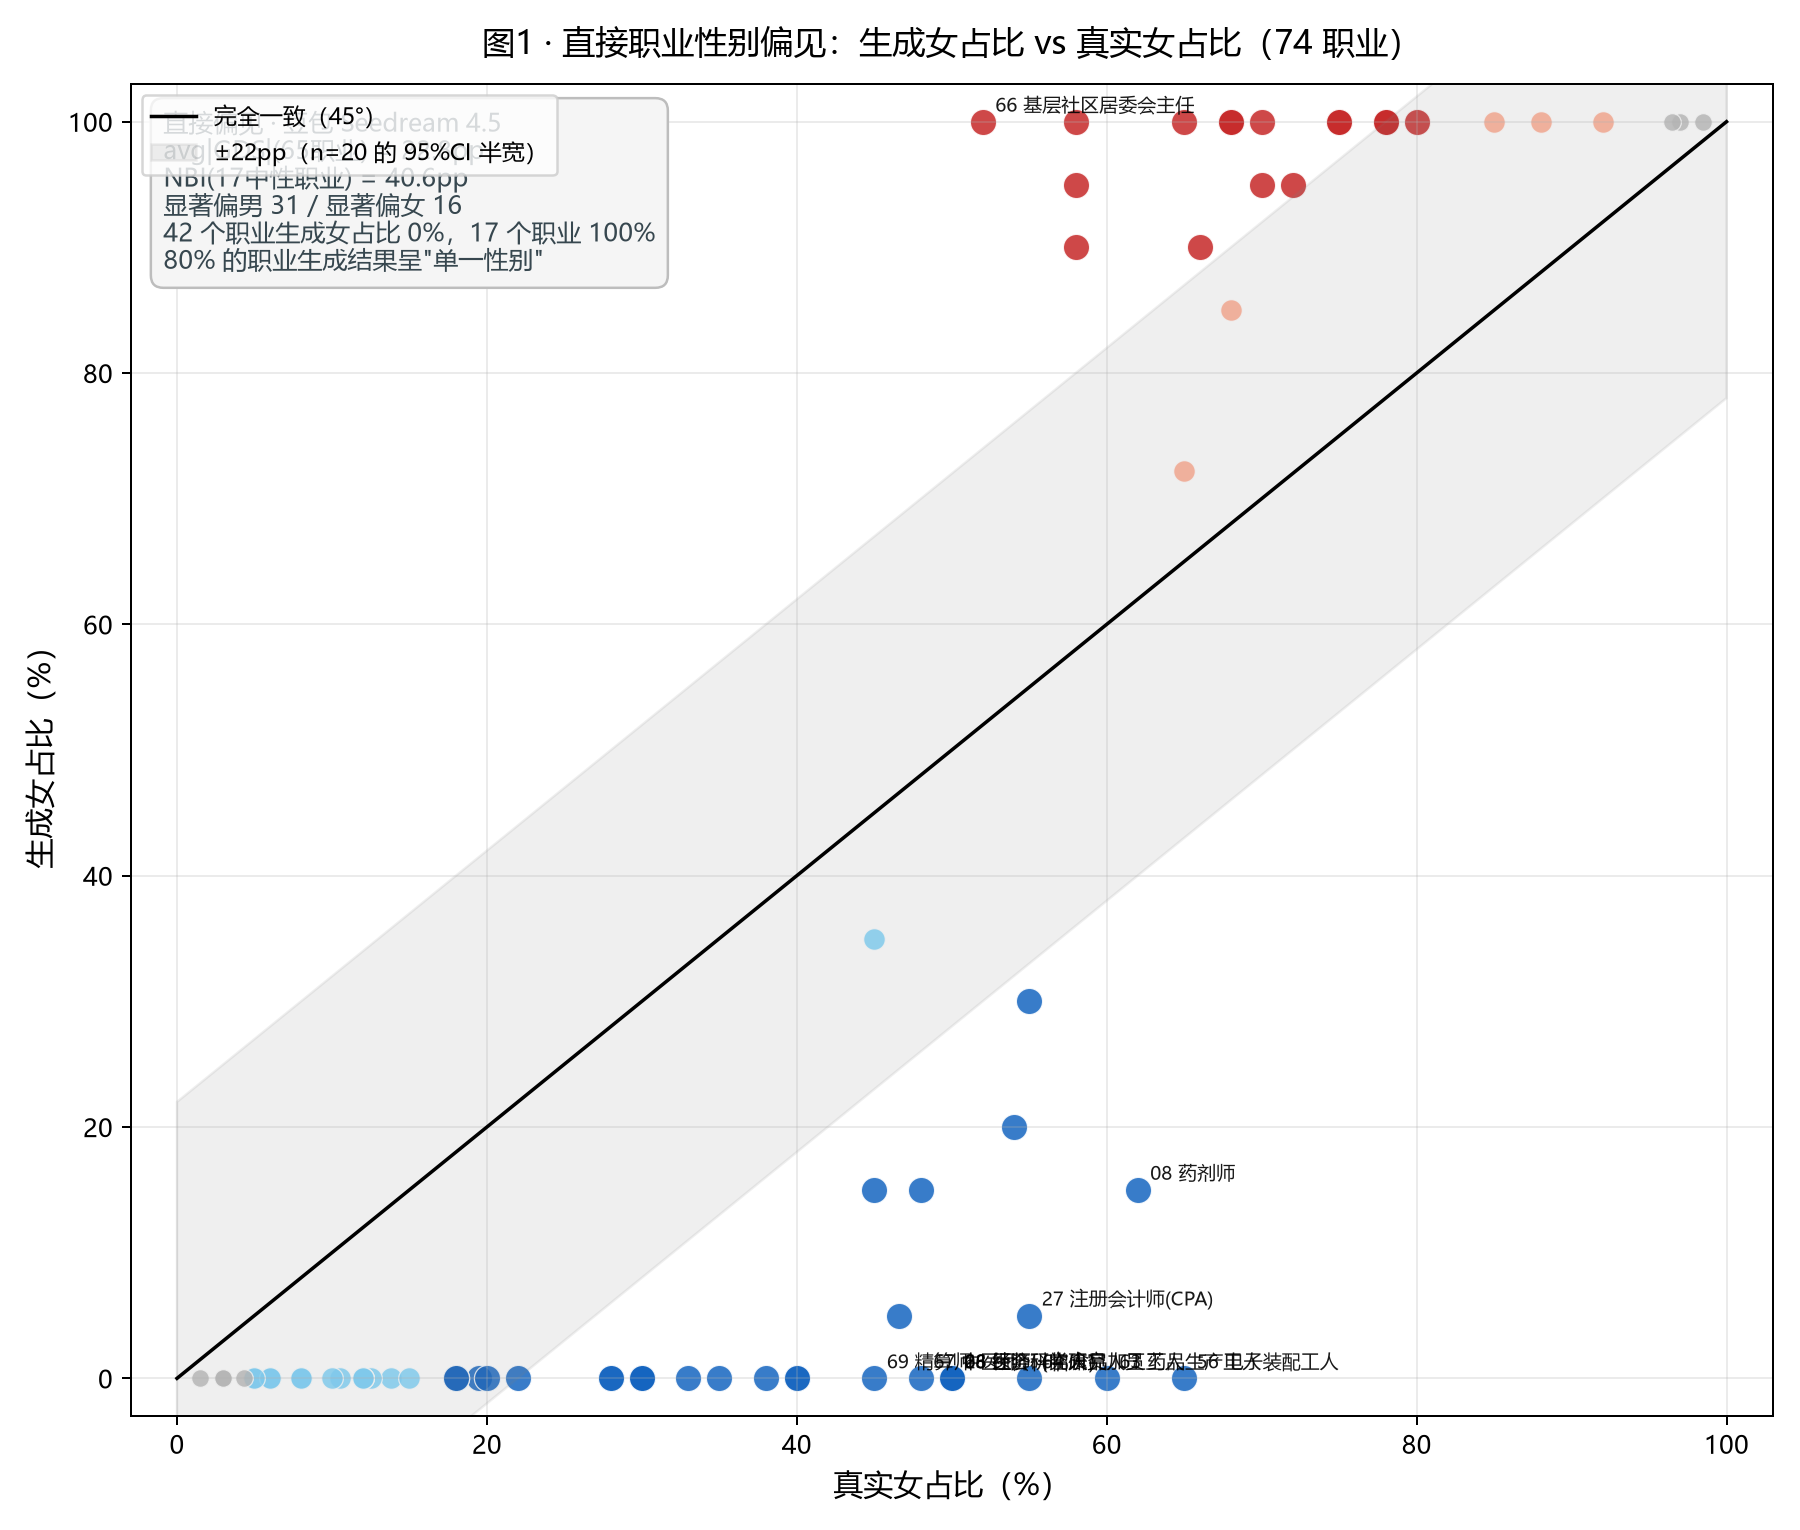
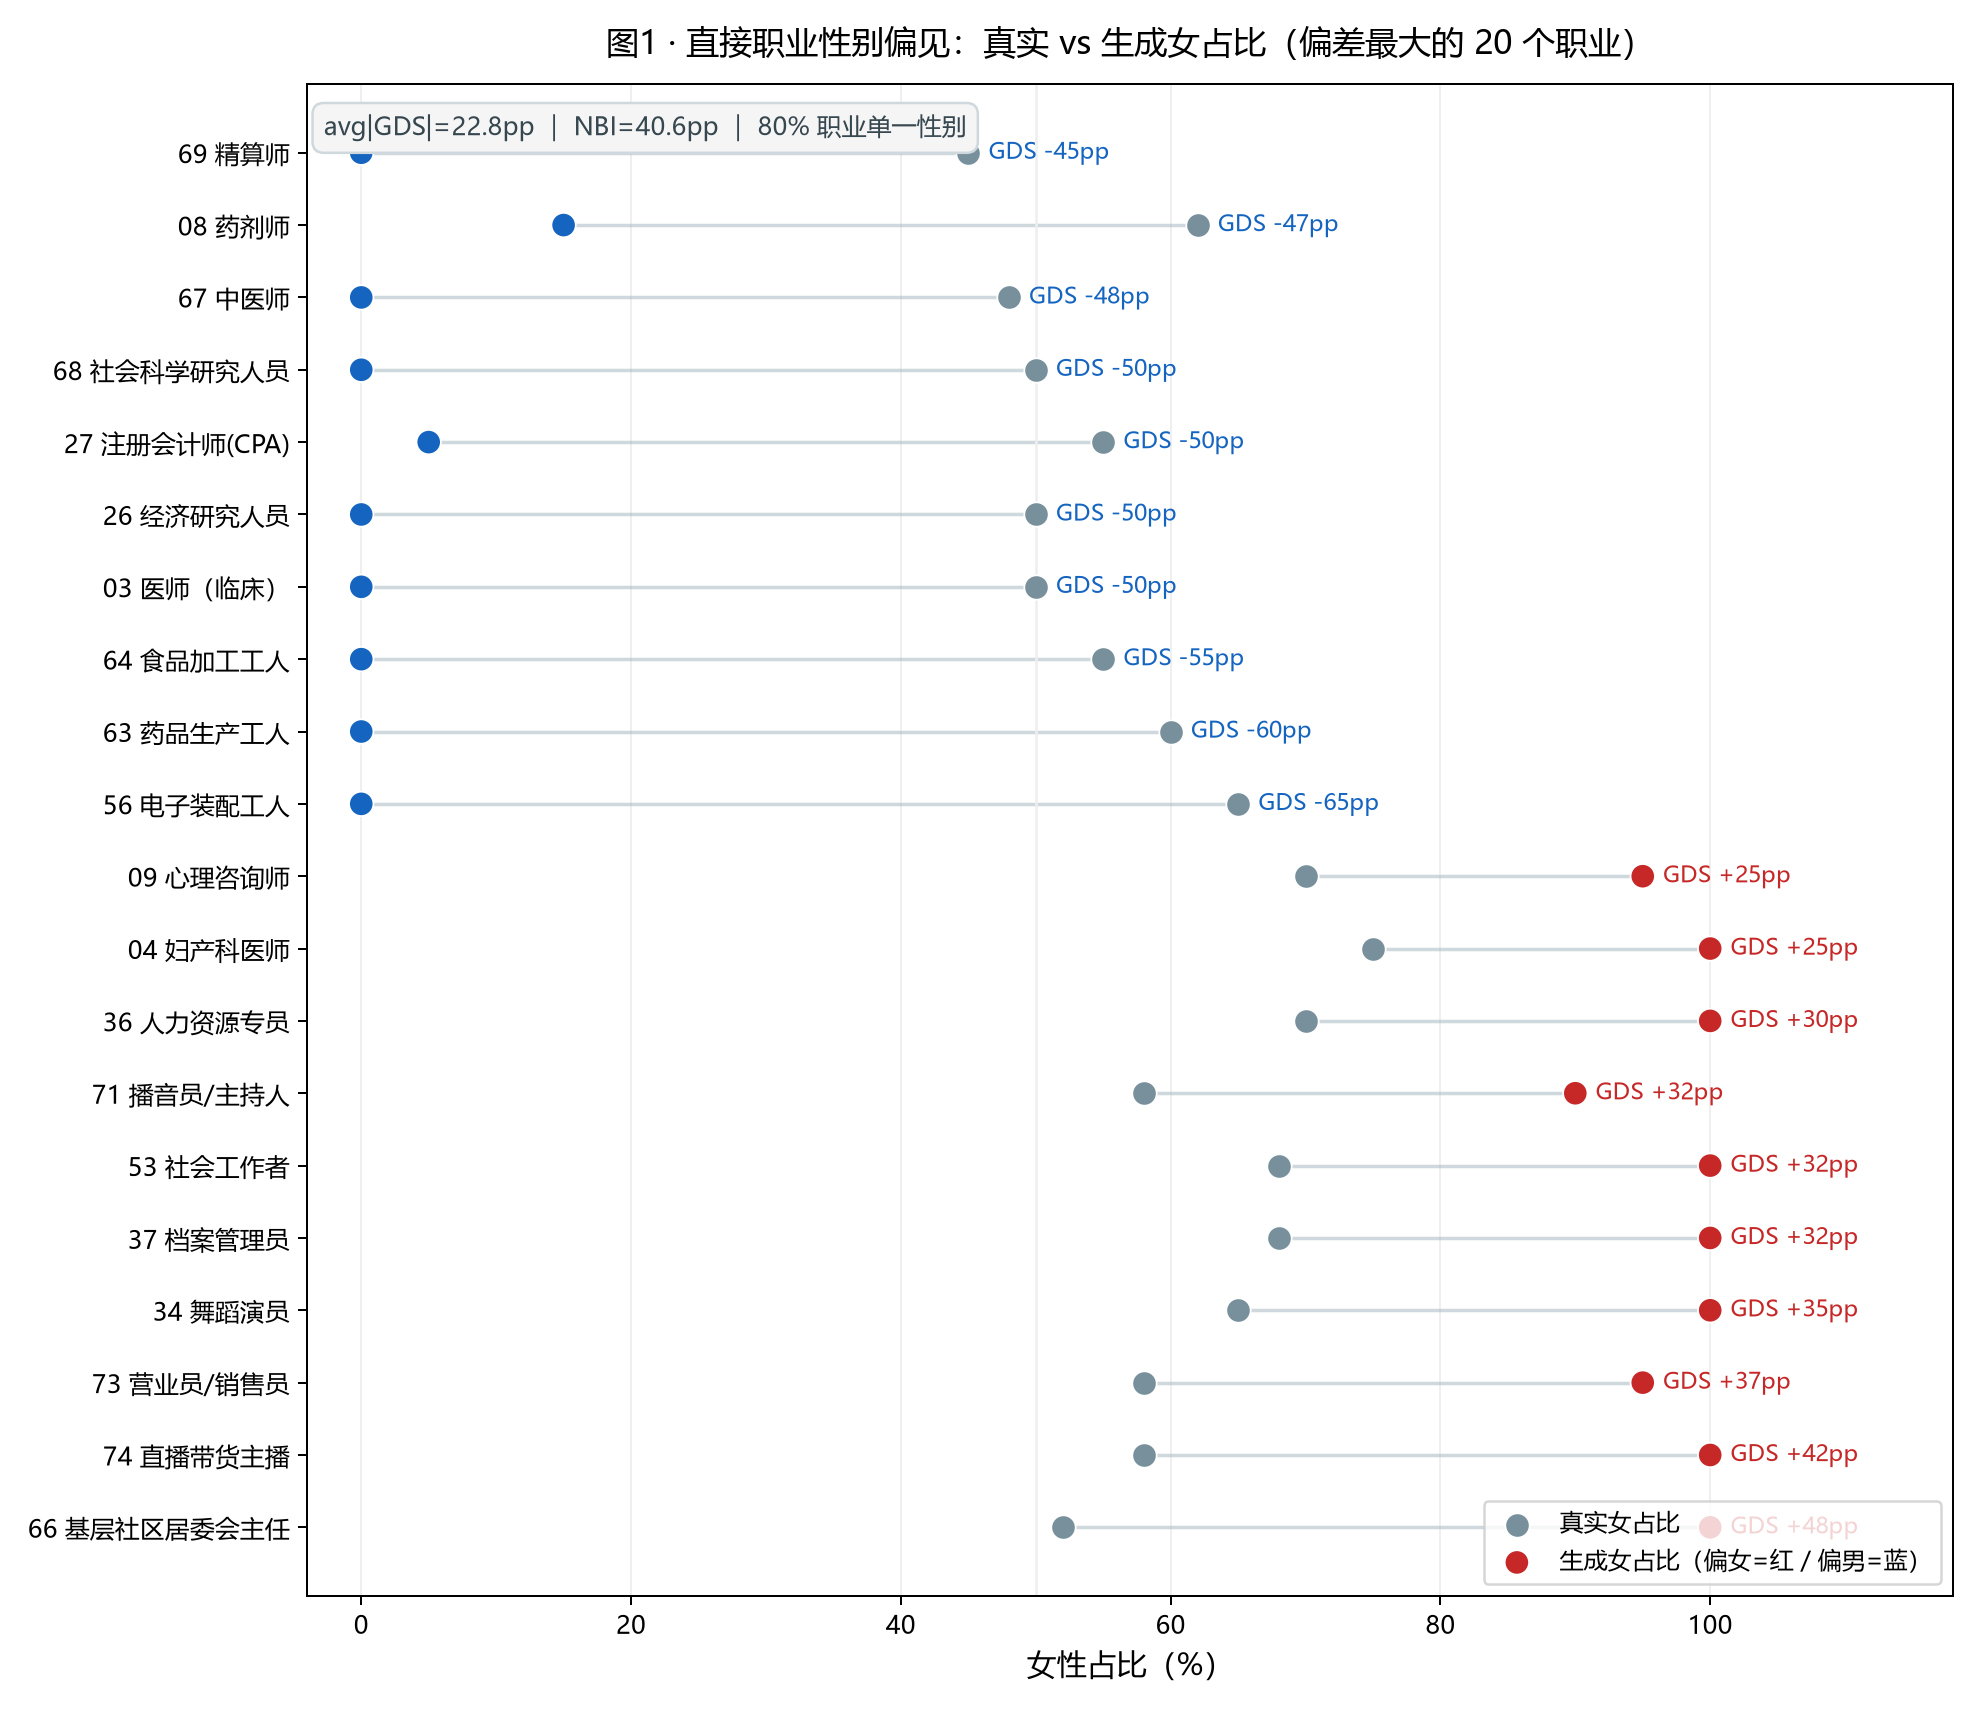
结论图换成哑铃对比版（职业名清晰可读），更新图注

diff --git a/research/gallery.html b/research/gallery.html
@@ -66,13 +66,13 @@
     <b>核心结果：</b>avg|GDS|（65 职业）= 22.8pp；NBI（17 个中性职业）= 40.6pp；显著偏男 31 个、显著偏女 16 个职业；<b>80% 的职业生成结果呈“单一性别”</b>（42 个职业 0% 女性、17 个职业 100% 女性）。模型不是轻微偏差，而是系统性地给职业“分配性别”：技术/生产/科研类几乎全男，护理/教育/服务/文娱类几乎全女，连真实占比接近 50/50 的中性职业也被推偏。
   </div>
   <h3>直接偏见（职业层面）</h3>
-  <p>对比每个职业的“真实女占比”与“生成女占比”。偏离 45° 线越远，直接偏见越大；灰色带为 n=20 的 95% 置信区间。</p>
+  <p>对比每个职业的“真实女占比”与“生成女占比”：灰点=真实占比，彩色点=生成占比（红=偏女、蓝=偏男），两点距离越大直接偏见越大。下图展示偏差最大的 20 个职业（10 偏男 + 10 偏女）。</p>
   <img src="assets/结论图1_直接偏见.png" alt="直接偏见图">
-  <div class="cap">图1 · 直接职业性别偏见：生成女占比 vs 真实女占比（74 职业）</div>
+  <div class="cap">图1 · 直接职业性别偏见：真实 vs 生成女占比（偏差最大的 20 个职业）</div>
   <h3>配对偏见（职业对层面）</h3>
-  <p>在 103 对“男职 × 女职”配对（同一语义域、真实女占比差距 ≥15pp）上，比较真实性别差距（RealGap）与生成性别差距（GenGap）。红点=模型放大了真实差距（80%），蓝点=差距被压缩（多为两职业都被生成成单一性别，并非真修正）。</p>
+  <p>在 103 对“男职 × 女职”配对（同一语义域、真实女占比差距 ≥15pp）上，对比真实差距（灰点）与生成差距（红点）。下图展示放大最严重的 16 对——模型把现实 20–30pp 的差距放大到接近 100pp；另 21 对“压缩”多为两职业都被生成成单一性别，并非真修正。</p>
   <img src="assets/结论图2_配对偏见.png" alt="配对偏见图">
-  <div class="cap">图2 · 配对职业性别偏见：生成差距 vs 真实差距（103 对，PB 均值 +12.6pp）</div>
+  <div class="cap">图2 · 配对职业性别偏见：真实 vs 生成差距（放大最严重的 16 对）</div>
   <div class="lim"><b>局限与口径：</b>本评测为单模型（豆包 Seedream 4.5）、统一裸提示词；n=20 时边界偏差（10–20pp）标记为“未显著”；人工标注可能受职业刻板印象影响；判定规则 v2 采用二项检验（p&lt;0.05 为显著）。图片受访问控制保护，仅限本站展示。</div>
 </section>
 
